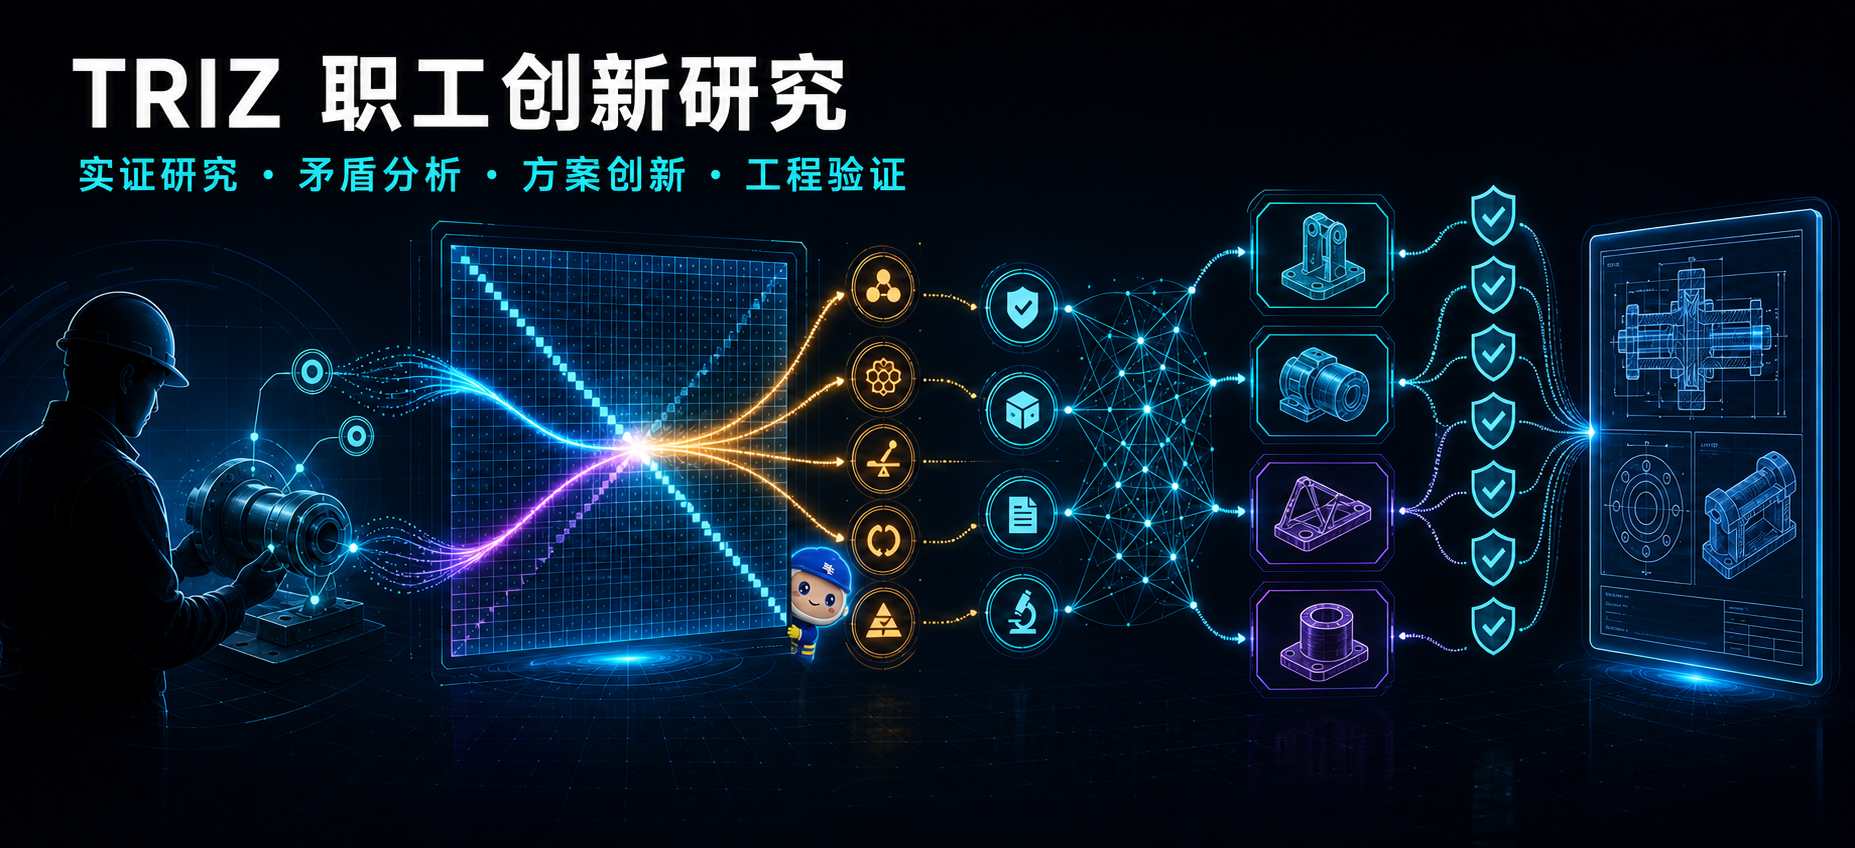
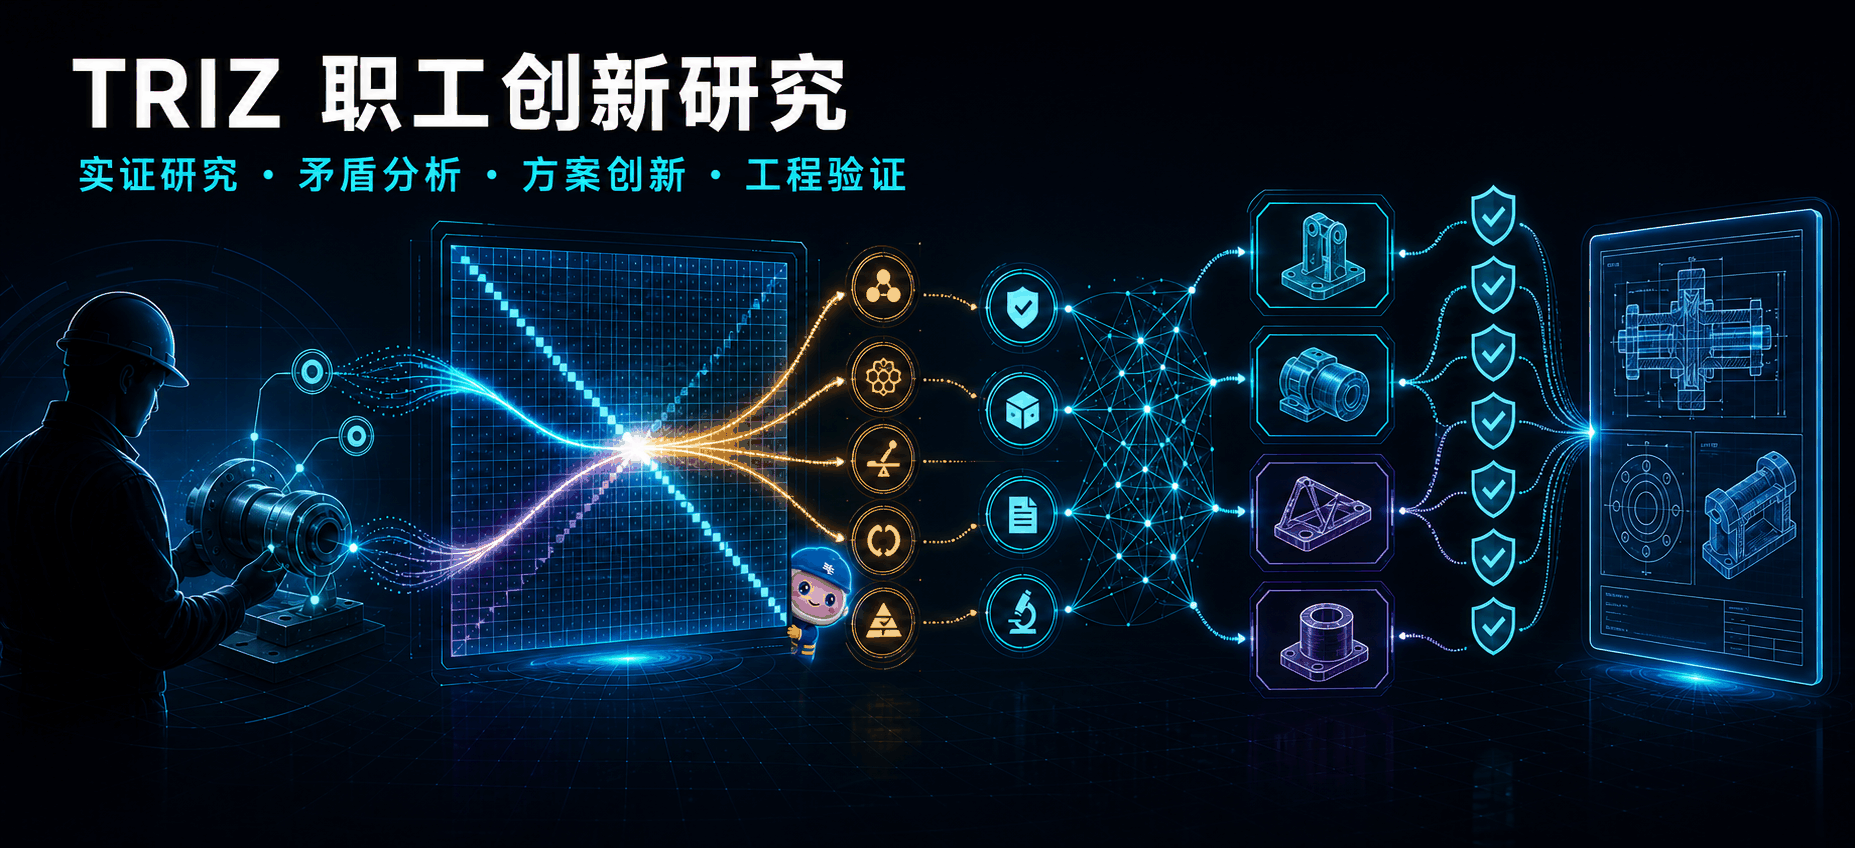
Batch 4: README quickstart/FAQ, figure selection table, asset cleanup
Adds 5-min quickstart with fictional example, FAQ, and per-platform install hints to README; final-report-blueprint.md §5 adds a figure type selection table (Mermaid for flow/cause-effect only; SVG or native shapes for mechanism/geometry; ASCII fallback) plus three templates; removes orphan hero-v1.png and applies lossless 256-color palette compression to hero-v2 (1.83MB → 0.60MB); agents/openai.yaml adds bilingual Chinese-first entry prompt and contract reminders. No matrix payload or SHA change.

(cherry picked from commit 96a165c55313d3ca5b98cd69b2e5d74c45999de0)

diff --git a/README.md b/README.md
@@ -11,15 +11,43 @@
 - 包含适合普通模型执行的状态机、判断树、填空模板和复核闸门；
 - 最终报告明确区分成熟已有技术、场景集成和候选创新。
 
+## 5 分钟上手
+
+以一个**完全虚构**的示例走一遍流程（不含任何真实企业信息）：
+
+> 虚构场景：某教学车间用台虎钳夹持薄壁铜管进行锯切，经常把管子夹瘪，锯完还要校圆，费时且报废率高。
+
+1. **直接描述问题**。安装后对智能体说：
+
+   ```text
+   请使用 $triz-worker-innovation-research 研究这个职工创新问题：
+   我们用台虎钳夹薄壁铜管锯切，管子经常被夹瘪，锯完要校圆，
+   有时直接报废。希望不买新设备，先把报废率降下来。
+   ```
+
+2. **技能先抽取、再补问**（G0→G1）。它会从你的描述里先提取已有信息，最多追问 1～3 个关键问题，例如管径范围、钳口是平的还是 V 形、报废率大概多少。
+
+3. **确认方向**（G1.5）。技能用大白话复述矛盾，并给出编号方向表让你选，例如“既要夹得稳，又不能夹变形”。你回复 A/B/C/D 或提出修正，沉默不会被视为同意。
+
+4. **矩阵查询**。技能将矛盾映射为工程参数（如 #10 应力 vs #11 形状），调用矩阵查出推荐原理（如原理 1 分割、原理 40 复合材料），并把每条原理翻译成现场可用的方案雏形——例如“钳口加开槽软衬块”。
+
+5. **获得交付**。小问题给方向稿，完整课题给标准研究（含查新、候选路线决策表、验证设计和效益测算）。每条结论都带证据标记：`F` 现场报告 / `M` 受控实测 / `S` 可追溯来源 / `H` 工程假设。
+
+整个过程你只需要回答问题和做决策，方法推导由技能按固定状态机推进。
 
 ## 仓库结构
 
 ```text
-triz-worker-innovation-research/
-├── SKILL.md
-├── agents/
-├── references/
-└── scripts/
+triz-worker-innovation-research/          # 仓库根
+├── README.md
+├── LICENSE / THIRD_PARTY_NOTICES.md
+├── assets/                               # 仓库宣传图
+└── triz-worker-innovation-research/      # 发布源（Skill 目录本体）
+    ├── SKILL.md                          # 技能入口与顶层契约
+    ├── CHANGELOG.md
+    ├── agents/openai.yaml                # OpenAI 平台配置入口
+    ├── references/                       # 工作流、模板、矩阵行分片等 40+ 文档
+    └── scripts/                          # lookup_matrix.py / .mjs、validate_skill.py
 ```
 
 ## 安装
@@ -43,11 +71,19 @@ python ~/.codex/skills/.system/skill-installer/scripts/install-skill-from-github
 
 Windows PowerShell 可将 `~` 换成用户目录下的 `.codex` 路径。
 
+### Claude / Claude Code
+
+将仓库中的 `triz-worker-innovation-research` 整个目录复制到个人技能目录（如 `~/.claude/skills/`），确保 `SKILL.md` 位于技能目录根部。
+
 ### 其他智能体平台
 
-将仓库中的 `triz-worker-innovation-research` 整个目录复制到平台的 skills 目录，并确保平台能把 `SKILL.md` 作为技能入口读取。若平台没有 skills 机制，可在任务开始时加载 `SKILL.md`，再按其中的资源路由按需加载 `references/`。
+通用做法：把 `triz-worker-innovation-research` 整个目录复制到平台的 skills 目录，并确保平台能把 `SKILL.md` 作为技能入口读取。若平台没有 skills 机制：
 
-完成实时深度研究仍需要平台自身具备联网检索能力；没有 Python/Node 时可直接读取内置 JSON 矩阵，不影响确定性查询。
+1. 在任务开始时把 `SKILL.md` 全文加载给智能体；
+2. 按 `SKILL.md` 中的资源路由表按需加载 `references/` 下的文档；
+3. 无脚本平台让智能体直接读取 `references/matrix-rows/R01.md`～`R39.md` 行分片查矩阵，不需要 Python/Node。
+
+完成实时深度研究仍需要平台自身具备联网检索能力；没有 Python/Node 时可直接读取内置 JSON 矩阵与行分片，不影响确定性查询。
 
 ## 验证
 
@@ -56,17 +92,30 @@ python triz-worker-innovation-research/scripts/validate_skill.py
 node triz-worker-innovation-research/scripts/lookup_matrix.mjs --self-test
 ```
 
-完整性检查包括：39 个参数、40 条原理、39×39 矩阵、1248 个非空单元、固定哈希、已知单元和行列方向。
+完整性检查包括：39 个参数、40 条原理、39×39 矩阵、1248 个非空单元、固定哈希、16 个黄金回归锚点、行分片一致性和双运行时（Python/Node）输出逐字一致。
 
-## 使用
+## FAQ
 
-安装后直接描述现场问题，或显式调用：
+**Q：必须联网才能用吗？**
+不是。矛盾矩阵检索、参数映射、物理矛盾分析、方案模板都不需要联网。只有“深度查新”（产品、标准、专利、论文检索）需要平台具备联网检索能力；无联网时技能会明确标注“检索日志未闭合”，不会假装查过。
 
-```text
-请使用 $triz-worker-innovation-research 研究这个职工创新问题：……
-```
+**Q：没有 Python 或 Node 能用吗？**
+能。矩阵数据内置为 JSON，并预生成了 39 个行分片（`references/matrix-rows/`），智能体可直接读文件查表。脚本只是提供更快、可校验的查询方式。
 
-技能会先形成完整 TRIZ 方向稿并请求确认；用户确认后，才进入产品、标准、专利、论文、跨行业类比和反对证据的系统研究。
+**Q：我的项目数据会被上传或内置到技能里吗？**
+不会。技能不含任何真实案例；所有项目信息只存在于你与智能体的会话中。请勿把真实项目照片、型号清单或内部规程提交到本仓库。
+
+**Q：我不回复确认，技能会继续往下做吗？**
+不会。方向确认门（G1.5）要求显式回复；沉默不视为授权。这是顶层契约的一部分。
+
+**Q：和直接问大模型“帮我用 TRIZ 分析一下”有什么区别？**
+直接问模型会得到不可复现的自由发挥。本技能提供固定状态机、判断树和填空模板，矩阵结果来自带哈希校验的本地数据，每个结论带证据分层和来源追溯，普通模型也能稳定执行同一套流程。
+
+**Q：矩阵数据可靠吗？**
+经典 39×39 矩阵来自阿奇舒勒原著转译版本，与常见英文版存在个别历史转录差异。本仓库固定了一个版本并给出 SHA-256 哈希与 16 个黄金回归锚点，任何改动都会被自检发现；差异清单记录在 `references/matrix-audit.md`。
+
+**Q：怎么确认安装完整？**
+运行上面的验证命令，看到 `SELF_TEST_PASS` 和校验器 `status: PASS` 即可。校验器同时检查发布清单完整性和双运行时一致性。
 
 ## 许可与归属
 

diff --git a/triz-worker-innovation-research/references/final-report-blueprint.md b/triz-worker-innovation-research/references/final-report-blueprint.md
@@ -237,23 +237,69 @@
 
 ## 5. 图示与网络资料规则
 
-### 必要图示
+### 5.1 图示选型表
 
-- 对象/典型结构图；
-- 现场问题链或完整工序图；
-- TRIZ 主矛盾到作用机制追溯图；
-- 每个入选方案的原理图；
-- 推荐系统架构与模块接口图；
-- 验证闸门；
-- 效益敏感性图（有数值时）。
+按图的内容类型选择格式，不设全局默认。Mermaid 只用于节点—连线类图，不得用于复杂机械原理图：
 
-### 网络图片
+| 图的内容类型 | 首选格式 | 兜底格式 | 禁止用法 |
+|---|---|---|---|
+| 流程/工序步骤 | Mermaid `flowchart` | ASCII | — |
+| 因果链/功能链 | Mermaid `flowchart` | ASCII | — |
+| 状态机/闸门 | Mermaid `stateDiagram` | ASCII | — |
+| 机理/几何/结构原理 | 自绘 SVG（标注对象、工具、力、方向、边界） | 平台原生可编辑图形 | 不得用 Mermaid 表达空间结构 |
+| 数据对比（有数值） | 平台原生图表（Excel/Word 图表） | Markdown 表格 + 文字 | 不得用 Mermaid 画柱状图 |
+| 目标为 Word/PPT 的插图 | 平台原生可编辑图形（SmartArt/形状/图表） | SVG 导入后转可编辑 | 不优先 Mermaid |
+
+选型规则：
+
+1. 先判断内容类型，再选格式；同一内容类型在四件成果中格式保持一致；
+2. Mermaid 图节点文字必须来自已写出的台账字段（工序名、瓶颈名、方案编号），不得在图里发明新术语；
+3. 机理/几何图若无力/方向/边界标注能力，宁可降级为“文字动作链 + ASCII 示意”，不得用流程图冒充原理图；
+4. ASCII 图仅作平台不支持任何图形时的兜底，须保持等宽字体并标注“文字示意图”。
+
+### 5.2 三类图模板
+
+**Mermaid 流程/因果图模板**（节点数 ≤ 12，超过先拆分）：
+
+```mermaid
+flowchart TD
+    P1[工序：____] --> F1[失效：____]
+    F1 --> C1[后果：____]
+    C1 --> B1[瓶颈编号：____]
+```
+
+**SVG 机理图模板**（自绘，必须包含以下标注才合格）：
+
+- 对象与工具的相对位置和接触界面；
+- 运动方向箭头与作用力标注；
+- 保护界面/停止边界（虚线或加粗）；
+- 废料/信息流走向；
+- 图题下标注“概念原理图/非制造图”与版本号。
+
+**原生可编辑图形模板**（Word/PPT 交付时）：
+
+- 用 SmartArt/形状复刻决策摘要中的推荐架构表（模块—接口关系）；
+- 用原生图表承载效益情景对比（保守/基准/理想）；
+- 所有形状保留可编辑状态，不插入位图截图替代；
+- 与 Markdown 版内容字段一一对应，编号一致。
+
+### 5.3 必要图示
+
+- 对象/典型结构图（SVG 或原生图形）；
+- 现场问题链或完整工序图（Mermaid）；
+- TRIZ 主矛盾到作用机制追溯图（Mermaid）；
+- 每个入选方案的原理图（SVG 或原生图形）；
+- 推荐系统架构与模块接口图（Mermaid 或原生图形）；
+- 验证闸门（Mermaid `stateDiagram`）；
+- 效益敏感性图（有数值时，原生图表）。
+
+### 5.4 网络图片
 
 优先收集原厂产品图、专利附图和标准机构示意图作为研究资料。嵌入报告前核对版权/许可并标来源；若授权不清，只给链接和文字说明，改用原创概念图。不得把竞品照片改色后当作本项目方案。
 
-### 自绘/生成图
+### 5.5 自绘/生成图
 
-图必须由已写出的作用机制驱动，不允许图先于方案。标注“概念原理图/非制造图”；尺寸、材料和效果没有 M/S 时不画成定型参数。图示台账记录：图号、文件、性质、依据、生成/绘制方式、来源和使用限制。
+图必须由已写出的作用机制驱动，不允许图先于方案；格式按 5.1 选型表选择。标注“概念原理图/非制造图”；尺寸、材料和效果没有 M/S 时不画成定型参数。图示台账记录：图号、文件、性质、依据、生成/绘制方式、来源和使用限制。
 
 ## 6. 写作与版式
 
